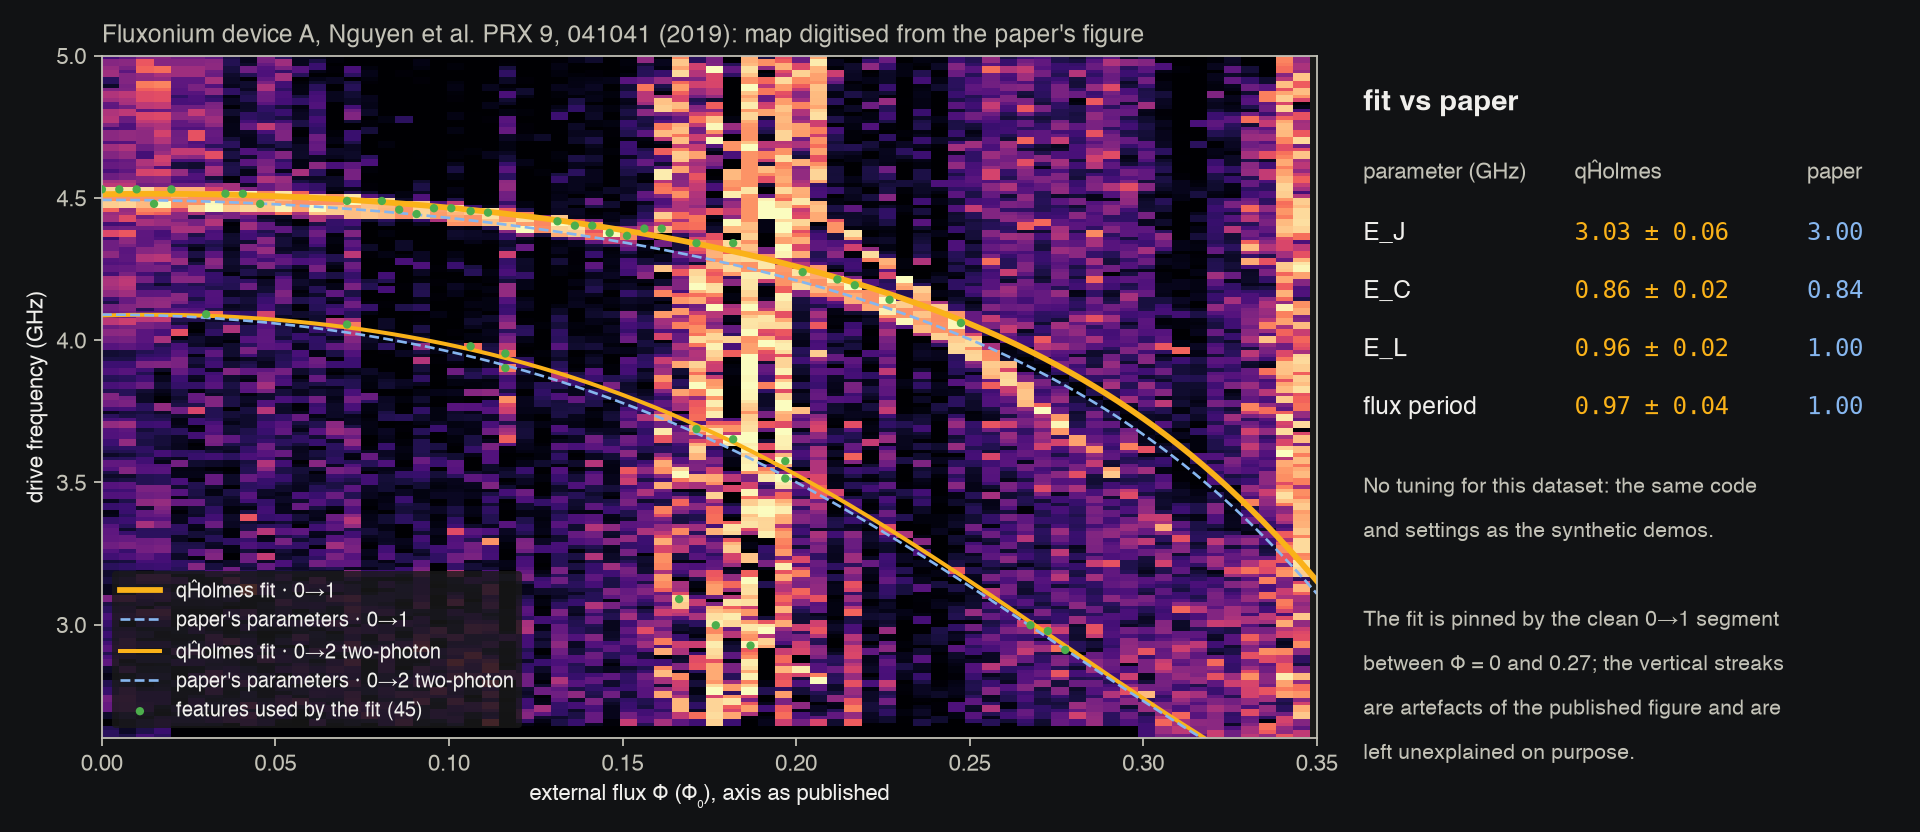
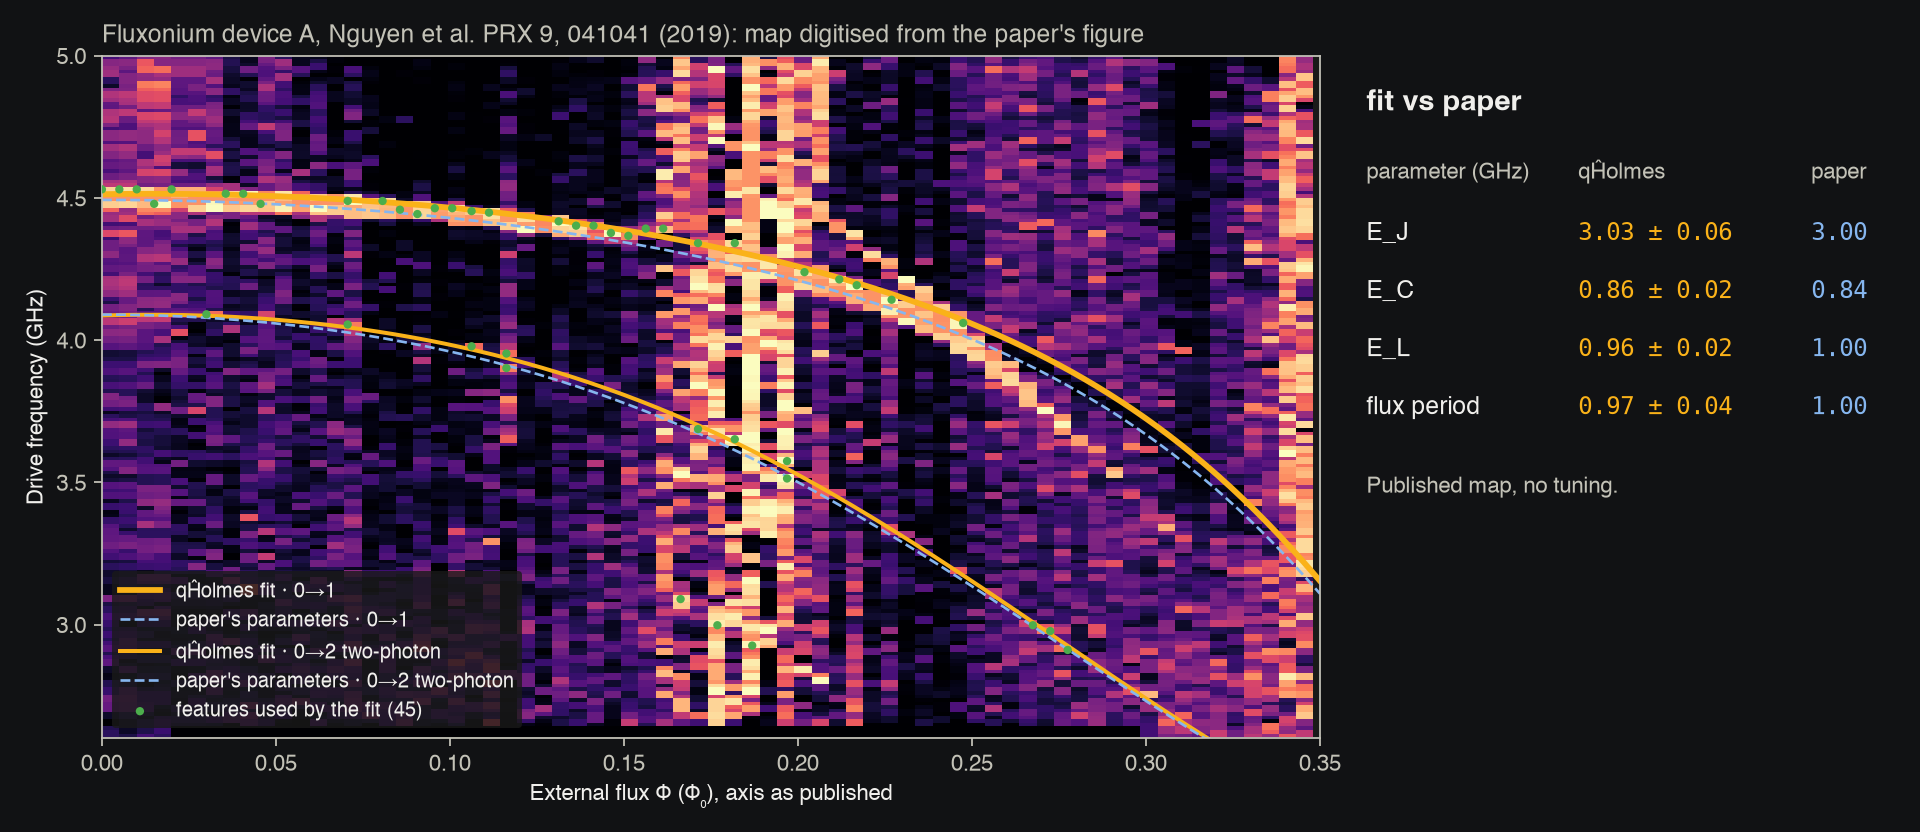
Real-data figure: capitalised axes, one-line caption

diff --git a/scripts/make_fig_real2.py b/scripts/make_fig_real2.py
@@ -36,7 +36,7 @@ for key, lab, lw in (("0-1", "0→1", 2.6), ("0-2/2ph", "0→2 two-photon", 1.8)
 m = inl & (P[:, 0] >= 0) & (P[:, 0] <= 0.35) & (P[:, 1] >= 2.6) & (P[:, 1] <= 5)
 ax.scatter(P[m, 0], P[m, 1], s=14, color=GREEN, edgecolor="none", zorder=5, label=f"features used by the fit ({int(m.sum())})")
 ax.set_xlim(0.0, 0.35); ax.set_ylim(2.6, 5.0)
-ax.set_xlabel("external flux Φ (Φ₀), axis as published"); ax.set_ylabel("drive frequency (GHz)")
+ax.set_xlabel("External flux Φ (Φ₀), axis as published"); ax.set_ylabel("Drive frequency (GHz)")
 ax.set_title("Fluxonium device A, Nguyen et al. PRX 9, 041041 (2019): map digitised from the paper's figure", fontsize=11, color=MUTED, loc="left")
 leg = ax.legend(loc="lower left", fontsize=9, facecolor=SURF, edgecolor="none", labelcolor=TEXT)
 at.axis("off")
@@ -52,14 +52,7 @@ for name, v, s_, pv in rows:
     at.text(0.40, y, f"{v:.2f} ± {s_:.2f}" if s_ else f"{v:.2f}", fontsize=11, color=AMBER, family="monospace", transform=at.transAxes)
     at.text(0.84, y, f"{pv:.2f}", fontsize=11, color="#86b6ef", family="monospace", transform=at.transAxes); y -= 0.085
 y -= 0.03
-for line in ("No tuning for this dataset: the same code",
-             "and settings as the synthetic demos.",
-             "",
-             "The fit is pinned by the clean 0→1 segment",
-             "between Φ = 0 and 0.27; the vertical streaks",
-             "are artefacts of the published figure and are",
-             "left unexplained on purpose."):
-    at.text(0.0, y, line, fontsize=9.5, color=MUTED, transform=at.transAxes); y -= 0.065
+at.text(0.0, y, "Published map, no tuning.", fontsize=10, color=MUTED, transform=at.transAxes)
 fig.tight_layout()
 fig.savefig("artifacts/fig_real_fit_vs_paper.png", dpi=160)
 print("wrote artifacts/fig_real_fit_vs_paper.png")
